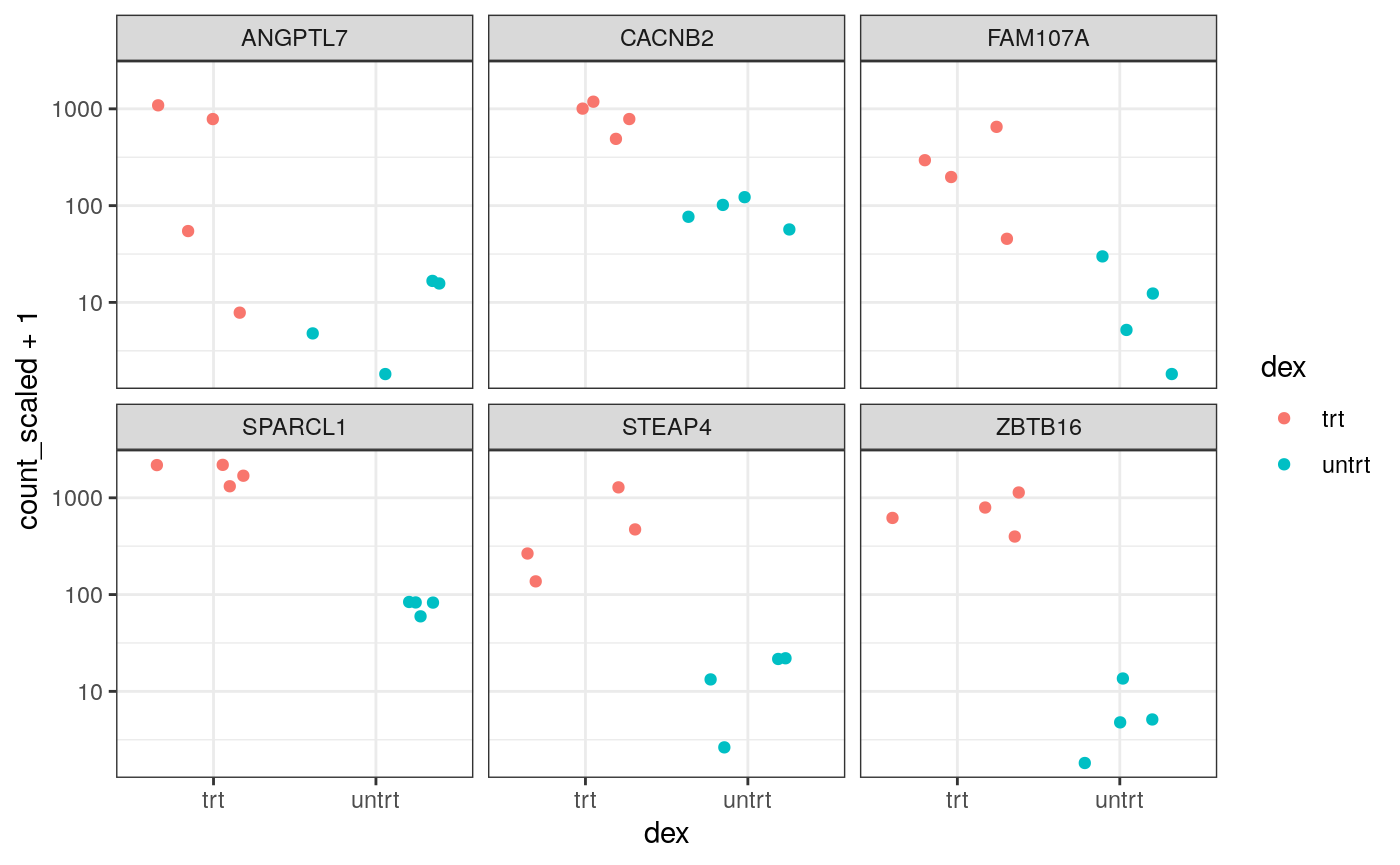
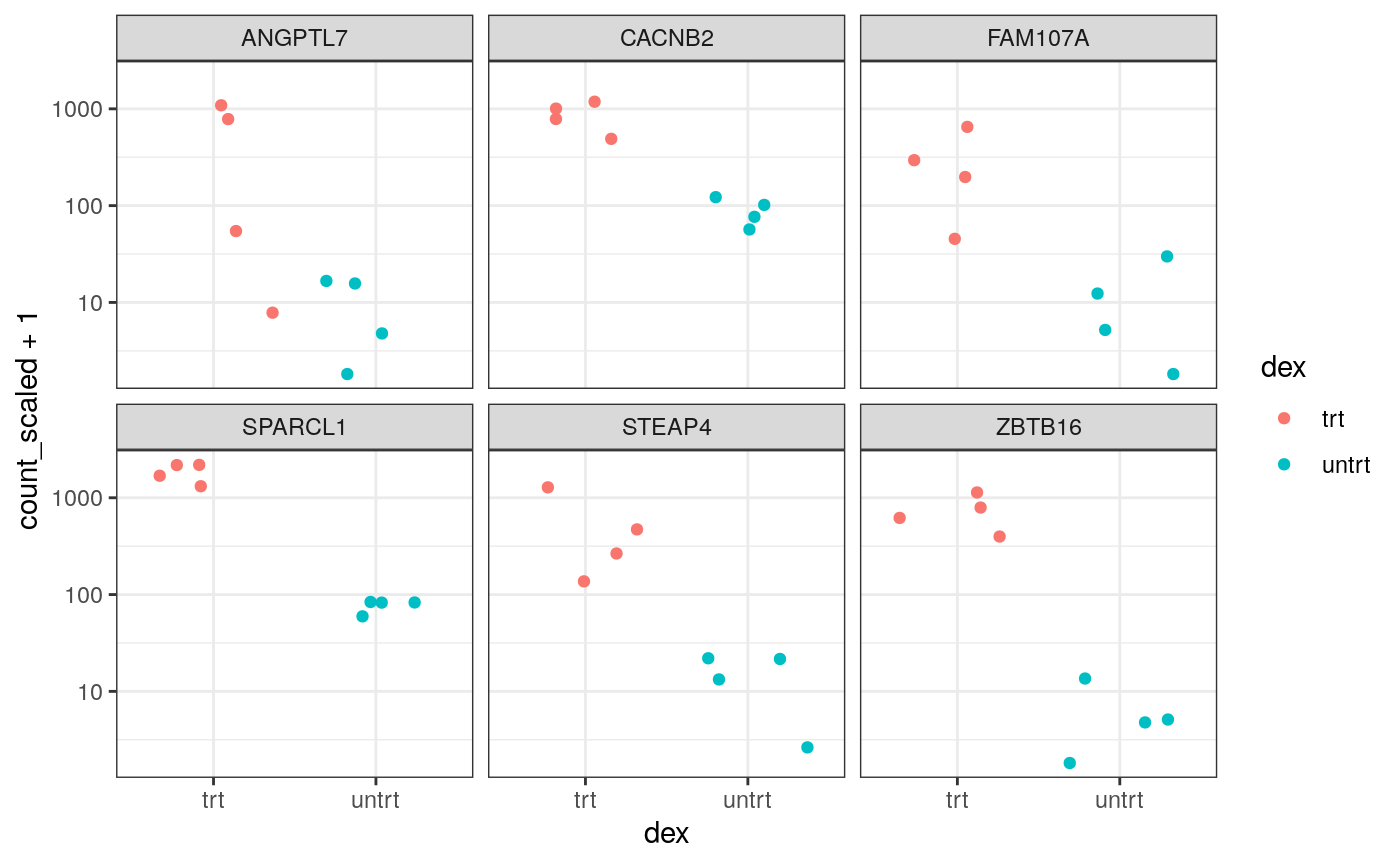
Deploying to gh-pages from  @ ad9006432ec81ad8755404ba2d474d36feb08934 🚀

diff --git a/articles/tidytranscriptomics.html b/articles/tidytranscriptomics.html
@@ -186,7 +186,7 @@
 <h2 class="hasAnchor">
 <a href="#acknowledgements" class="anchor"></a>Acknowledgements</h2>
 <p>This material is adapted from an R for RNA-Seq workshop first run <a href="http://combine-australia.github.io/2016-05-11-RNAseq/">here</a>.</p>
-<p><img src="../../../../tmp/RtmpfVWxYM/temp_libpath3411f44aed0/tidytranscriptomics/vignettes/tidybulk_logo.png" width="501"></p>
+<p><img src="../../../../tmp/Rtmp8M4zva/temp_libpath33f35d0c35a/tidytranscriptomics/vignettes/tidybulk_logo.png" width="501"></p>
 </div>
 </div>
 <div id="overview" class="section level1">
@@ -784,8 +784,8 @@ Count how many downregulated DE genes there are.</p>
     <span class="fu"><a href="https://ggplot2.tidyverse.org/reference/ggtheme.html">theme_bw</a></span>()</pre></body></html></div>
 <p>Then we simply give our plot, p, to the ggplotly function. We can also specify which parameters from the aes() we want to show up when we hover over the plot with tooltip=.</p>
 <div class="sourceCode" id="cb36"><html><body><pre class="r"><span class="fu"><a href="https://rdrr.io/pkg/plotly/man/ggplotly.html">ggplotly</a></span>(<span class="no">p</span>, <span class="kw">tooltip</span> <span class="kw">=</span> <span class="fu"><a href="https://rdrr.io/r/base/c.html">c</a></span>(<span class="st">"label"</span>, <span class="st">"y"</span>))</pre></body></html></div>
-<div id="htmlwidget-235019543d0457da34e0" style="width:700px;height:432.632880098888px;" class="plotly html-widget"></div>
-<script type="application/json" data-for="htmlwidget-235019543d0457da34e0">{"x":{"data":[{"x":[1.21570576820523,1.39398273620754,1.31217649877071,0.644292893819511],"y":[1.73728205141041,2.89401622468631,0.893778082835723,3.03627098310859],"text":["count_scaled + 1:   54.594227<br />sample: 509","count_scaled + 1:  783.629558<br />sample: 513","count_scaled + 1:    7.831350<br />sample: 517","count_scaled + 1: 1087.165607<br />sample: 521"],"type":"scatter","mode":"markers","marker":{"autocolorscale":false,"color":"rgba(248,118,109,1)","opacity":1,"size":5.66929133858268,"symbol":"circle","line":{"width":1.88976377952756,"color":"rgba(248,118,109,1)"}},"hoveron":"points","name":"trt","legendgroup":"trt","showlegend":true,"xaxis":"x","yaxis":"y","hoverinfo":"text","frame":null},{"x":[1.00137656871229,1.30676139742136,1.00832558143884,0.95162315890193],"y":[2.89465899232649,3.07337409752623,2.68970357498483,3.00209638558997],"text":["count_scaled + 1:  784.547600<br />sample: 509","count_scaled + 1: 1184.312830<br />sample: 513","count_scaled + 1:  489.441544<br />sample: 517","count_scaled + 1: 1004.710673<br />sample: 521"],"type":"scatter","mode":"markers","marker":{"autocolorscale":false,"color":"rgba(248,118,109,1)","opacity":1,"size":5.66929133858268,"symbol":"circle","line":{"width":1.88976377952756,"color":"rgba(248,118,109,1)"}},"hoveron":"points","name":"trt","legendgroup":"trt","showlegend":false,"xaxis":"x2","yaxis":"y","hoverinfo":"text","frame":null},{"x":[0.744584953226149,0.668123092129826,0.850157279893756,1.32685821950436],"y":[2.46938799602168,2.81359419442995,1.65703426555461,2.29545950779066],"text":["count_scaled + 1:  294.696364<br />sample: 509","count_scaled + 1:  651.029338<br />sample: 513","count_scaled + 1:   45.403777<br />sample: 517","count_scaled + 1:  197.466694<br />sample: 521"],"type":"scatter","mode":"markers","marker":{"autocolorscale":false,"color":"rgba(248,118,109,1)","opacity":1,"size":5.66929133858268,"symbol":"circle","line":{"width":1.88976377952756,"color":"rgba(248,118,109,1)"}},"hoveron":"points","name":"trt","legendgroup":"trt","showlegend":false,"xaxis":"x3","yaxis":"y","hoverinfo":"text","frame":null},{"x":[0.979618299566209,0.85689706299454,0.801362202689052,0.875815153680742],"y":[3.34005330193838,3.22786887979703,3.11921169852723,3.33791442567974],"text":["count_scaled + 1: 2187.644464<br />sample: 509","count_scaled + 1: 1690.211495<br />sample: 513","count_scaled + 1: 1315.351790<br />sample: 517","count_scaled + 1: 2177.403062<br />sample: 521"],"type":"scatter","mode":"markers","marker":{"autocolorscale":false,"color":"rgba(248,118,109,1)","opacity":1,"size":5.66929133858268,"symbol":"circle","line":{"width":1.88976377952756,"color":"rgba(248,118,109,1)"}},"hoveron":"points","name":"trt","legendgroup":"trt","showlegend":false,"xaxis":"x","yaxis":"y2","hoverinfo":"text","frame":null},{"x":[1.21147313509136,1.22606532387435,1.37493712157011,0.660956122726202],"y":[2.42459462444432,3.1078380582323,2.1365016179664,2.67338529198724],"text":["count_scaled + 1:  265.755482<br />sample: 509","count_scaled + 1: 1282.321688<br />sample: 513","count_scaled + 1:  136.943870<br />sample: 517","count_scaled + 1:  471.298510<br />sample: 521"],"type":"scatter","mode":"markers","marker":{"autocolorscale":false,"color":"rgba(248,118,109,1)","opacity":1,"size":5.66929133858268,"symbol":"circle","line":{"width":1.88976377952756,"color":"rgba(248,118,109,1)"}},"hoveron":"points","name":"trt","legendgroup":"trt","showlegend":false,"xaxis":"x2","yaxis":"y2","hoverinfo":"text","frame":null},{"x":[0.642636989429593,0.863058328814805,0.732294569350779,0.926914392411709],"y":[2.89935744935843,2.79195458185955,2.59975501587544,3.0546286291341],"text":["count_scaled + 1:  793.122676<br />sample: 509","count_scaled + 1:  619.320590<br />sample: 513","count_scaled + 1:  397.901450<br />sample: 517","count_scaled + 1: 1133.991865<br />sample: 521"],"type":"scatter","mode":"markers","marker":{"autocolorscale":false,"color":"rgba(248,118,109,1)","opacity":1,"size":5.66929133858268,"symbol":"circle","line":{"width":1.88976377952756,"color":"rgba(248,118,109,1)"}},"hoveron":"points","name":"trt","legendgroup":"trt","showlegend":false,"xaxis":"x3","yaxis":"y2","hoverinfo":"text","frame":null},{"x":[2.12927833925933,2.34770349264145,2.14945242255926,1.67820301391184],"y":[0.679629133803114,1.22184719405058,0.26005942230235,1.19526539667057],"text":["count_scaled + 1:    4.781532<br />sample: 508","count_scaled + 1:   16.670834<br />sample: 512","count_scaled + 1:    1.819319<br />sample: 516","count_scaled + 1:   15.683213<br />sample: 520"],"type":"scatter","mode":"markers","marker":{"autocolorscale":false,"color":"rgba(0,191,196,1)","opacity":1,"size":5.66929133858268,"symbol":"circle","line":{"width":1.88976377952756,"color":"rgba(0,191,196,1)"}},"hoveron":"points","name":"untrt","legendgroup":"untrt","showlegend":true,"xaxis":"x","yaxis":"y","hoverinfo":"text","frame":null},{"x":[1.80864110998809,2.07695192955434,1.86744059864432,1.78708292245865],"y":[1.88449976887222,2.08712320565337,1.75373131439749,2.00714846595127],"text":["count_scaled + 1:   76.630633<br />sample: 508","count_scaled + 1:  122.242767<br />sample: 512","count_scaled + 1:   56.713711<br />sample: 516","count_scaled + 1:  101.684887<br />sample: 520"],"type":"scatter","mode":"markers","marker":{"autocolorscale":false,"color":"rgba(0,191,196,1)","opacity":1,"size":5.66929133858268,"symbol":"circle","line":{"width":1.88976377952756,"color":"rgba(0,191,196,1)"}},"hoveron":"points","name":"untrt","legendgroup":"untrt","showlegend":false,"xaxis":"x2","yaxis":"y","hoverinfo":"text","frame":null},{"x":[1.92308437898755,1.61563271936029,2.1412422215566,1.82666055839509],"y":[1.0915812289199,1.47506191939727,0.259733526839792,0.715436877990699],"text":["count_scaled + 1:   12.344595<br />sample: 508","count_scaled + 1:   29.867325<br />sample: 512","count_scaled + 1:    1.819319<br />sample: 516","count_scaled + 1:    5.195204<br />sample: 520"],"type":"scatter","mode":"markers","marker":{"autocolorscale":false,"color":"rgba(0,191,196,1)","opacity":1,"size":5.66929133858268,"symbol":"circle","line":{"width":1.88976377952756,"color":"rgba(0,191,196,1)"}},"hoveron":"points","name":"untrt","legendgroup":"untrt","showlegend":false,"xaxis":"x3","yaxis":"y","hoverinfo":"text","frame":null},{"x":[2.13067756891251,2.19726995807141,1.97403500024229,1.8564035108313],"y":[1.77516598829822,1.91725683717417,1.91874013914557,1.92357112325887],"text":["count_scaled + 1:   59.613741<br />sample: 508","count_scaled + 1:   82.653292<br />sample: 512","count_scaled + 1:   82.931928<br />sample: 516","count_scaled + 1:   83.855272<br />sample: 520"],"type":"scatter","mode":"markers","marker":{"autocolorscale":false,"color":"rgba(0,191,196,1)","opacity":1,"size":5.66929133858268,"symbol":"circle","line":{"width":1.88976377952756,"color":"rgba(0,191,196,1)"}},"hoveron":"points","name":"untrt","legendgroup":"untrt","showlegend":false,"xaxis":"x","yaxis":"y2","hoverinfo":"text","frame":null},{"x":[1.75192174911499,1.72286606132984,1.95977562405169,2.04091384094208],"y":[1.12363319569917,1.33467794296029,0.421420488365923,1.34199046522261],"text":["count_scaled + 1:   13.289978<br />sample: 508","count_scaled + 1:   21.619518<br />sample: 512","count_scaled + 1:    2.638639<br />sample: 516","count_scaled + 1:   21.976018<br />sample: 520"],"type":"scatter","mode":"markers","marker":{"autocolorscale":false,"color":"rgba(0,191,196,1)","opacity":1,"size":5.66929133858268,"symbol":"circle","line":{"width":1.88976377952756,"color":"rgba(0,191,196,1)"}},"hoveron":"points","name":"untrt","legendgroup":"untrt","showlegend":false,"xaxis":"x2","yaxis":"y2","hoverinfo":"text","frame":null},{"x":[2.37249439097941,2.14613759238273,2.28444579355419,2.33318480495363],"y":[0.679626062711842,0.709721888462342,0.260018378404195,1.13294956741353],"text":["count_scaled + 1:    4.781532<br />sample: 508","count_scaled + 1:    5.123904<br />sample: 512","count_scaled + 1:    1.819319<br />sample: 516","count_scaled + 1:   13.585611<br />sample: 520"],"type":"scatter","mode":"markers","marker":{"autocolorscale":false,"color":"rgba(0,191,196,1)","opacity":1,"size":5.66929133858268,"symbol":"circle","line":{"width":1.88976377952756,"color":"rgba(0,191,196,1)"}},"hoveron":"points","name":"untrt","legendgroup":"untrt","showlegend":false,"xaxis":"x3","yaxis":"y2","hoverinfo":"text","frame":null}],"layout":{"margin":{"t":39.5141341357194,"r":7.30593607305936,"b":41.7789743183678,"l":48.9497716894977},"plot_bgcolor":"rgba(255,255,255,1)","paper_bgcolor":"rgba(255,255,255,1)","font":{"color":"rgba(0,0,0,1)","family":"","size":14.6118721461187},"xaxis":{"domain":[0,0.32941943900848],"automargin":true,"type":"linear","autorange":false,"range":[0.4,2.6],"tickmode":"array","ticktext":["trt","untrt"],"tickvals":[1,2],"categoryorder":"array","categoryarray":["trt","untrt"],"nticks":null,"ticks":"outside","tickcolor":"rgba(51,51,51,1)","ticklen":3.65296803652968,"tickwidth":0.66417600664176,"showticklabels":true,"tickfont":{"color":"rgba(77,77,77,1)","family":"","size":11.689497716895},"tickangle":-0,"showline":false,"linecolor":null,"linewidth":0,"showgrid":true,"gridcolor":"rgba(235,235,235,1)","gridwidth":0.66417600664176,"zeroline":false,"anchor":"y2","title":"","hoverformat":".2f"},"annotations":[{"text":"dex","x":0.5,"y":-0.0196373426241191,"showarrow":false,"ax":0,"ay":0,"font":{"color":"rgba(0,0,0,1)","family":"","size":14.6118721461187},"xref":"paper","yref":"paper","textangle":-0,"xanchor":"center","yanchor":"top","annotationType":"axis"},{"text":"count_scaled + 1","x":-0.0183953033268102,"y":0.5,"showarrow":false,"ax":0,"ay":0,"font":{"color":"rgba(0,0,0,1)","family":"","size":14.6118721461187},"xref":"paper","yref":"paper","textangle":-90,"xanchor":"right","yanchor":"center","annotationType":"axis"},{"text":"ANGPTL7","x":0.16470971950424,"y":1,"showarrow":false,"ax":0,"ay":0,"font":{"color":"rgba(26,26,26,1)","family":"","size":11.689497716895},"xref":"paper","yref":"paper","textangle":-0,"xanchor":"center","yanchor":"bottom"},{"text":"CACNB2","x":0.5,"y":1,"showarrow":false,"ax":0,"ay":0,"font":{"color":"rgba(26,26,26,1)","family":"","size":11.689497716895},"xref":"paper","yref":"paper","textangle":-0,"xanchor":"center","yanchor":"bottom"},{"text":"FAM107A","x":0.83529028049576,"y":1,"showarrow":false,"ax":0,"ay":0,"font":{"color":"rgba(26,26,26,1)","family":"","size":11.689497716895},"xref":"paper","yref":"paper","textangle":-0,"xanchor":"center","yanchor":"bottom"},{"text":"SPARCL1","x":0.16470971950424,"y":0.483529970702352,"showarrow":false,"ax":0,"ay":0,"font":{"color":"rgba(26,26,26,1)","family":"","size":11.689497716895},"xref":"paper","yref":"paper","textangle":-0,"xanchor":"center","yanchor":"bottom"},{"text":"STEAP4","x":0.5,"y":0.483529970702352,"showarrow":false,"ax":0,"ay":0,"font":{"color":"rgba(26,26,26,1)","family":"","size":11.689497716895},"xref":"paper","yref":"paper","textangle":-0,"xanchor":"center","yanchor":"bottom"},{"text":"ZBTB16","x":0.83529028049576,"y":0.483529970702352,"showarrow":false,"ax":0,"ay":0,"font":{"color":"rgba(26,26,26,1)","family":"","size":11.689497716895},"xref":"paper","yref":"paper","textangle":-0,"xanchor":"center","yanchor":"bottom"},{"text":"dex","x":1.02,"y":1,"showarrow":false,"ax":0,"ay":0,"font":{"color":"rgba(0,0,0,1)","family":"","size":14.6118721461187},"xref":"paper","yref":"paper","textangle":-0,"xanchor":"left","yanchor":"bottom","legendTitle":true}],"yaxis":{"domain":[0.516470029297648,1],"automargin":true,"type":"linear","autorange":false,"range":[0.105717538084863,3.49406929069331],"tickmode":"array","ticktext":["10","100","1000"],"tickvals":[1,2,3],"categoryorder":"array","categoryarray":["10","100","1000"],"nticks":null,"ticks":"outside","tickcolor":"rgba(51,51,51,1)","ticklen":3.65296803652968,"tickwidth":0.66417600664176,"showticklabels":true,"tickfont":{"color":"rgba(77,77,77,1)","family":"","size":11.689497716895},"tickangle":-0,"showline":false,"linecolor":null,"linewidth":0,"showgrid":true,"gridcolor":"rgba(235,235,235,1)","gridwidth":0.66417600664176,"zeroline":false,"anchor":"x","title":"","hoverformat":".2f"},"shapes":[{"type":"rect","fillcolor":"transparent","line":{"color":"rgba(51,51,51,1)","width":0.66417600664176,"linetype":"solid"},"yref":"paper","xref":"paper","x0":0,"x1":0.32941943900848,"y0":0.516470029297648,"y1":1},{"type":"rect","fillcolor":"rgba(217,217,217,1)","line":{"color":"rgba(51,51,51,1)","width":0.66417600664176,"linetype":"solid"},"yref":"paper","xref":"paper","x0":0,"x1":0.32941943900848,"y0":0,"y1":23.37899543379,"yanchor":1,"ysizemode":"pixel"},{"type":"rect","fillcolor":"transparent","line":{"color":"rgba(51,51,51,1)","width":0.66417600664176,"linetype":"solid"},"yref":"paper","xref":"paper","x0":0.337247227658187,"x1":0.662752772341813,"y0":0.516470029297648,"y1":1},{"type":"rect","fillcolor":"rgba(217,217,217,1)","line":{"color":"rgba(51,51,51,1)","width":0.66417600664176,"linetype":"solid"},"yref":"paper","xref":"paper","x0":0.337247227658187,"x1":0.662752772341813,"y0":0,"y1":23.37899543379,"yanchor":1,"ysizemode":"pixel"},{"type":"rect","fillcolor":"transparent","line":{"color":"rgba(51,51,51,1)","width":0.66417600664176,"linetype":"solid"},"yref":"paper","xref":"paper","x0":0.67058056099152,"x1":1,"y0":0.516470029297648,"y1":1},{"type":"rect","fillcolor":"rgba(217,217,217,1)","line":{"color":"rgba(51,51,51,1)","width":0.66417600664176,"linetype":"solid"},"yref":"paper","xref":"paper","x0":0.67058056099152,"x1":1,"y0":0,"y1":23.37899543379,"yanchor":1,"ysizemode":"pixel"},{"type":"rect","fillcolor":"transparent","line":{"color":"rgba(51,51,51,1)","width":0.66417600664176,"linetype":"solid"},"yref":"paper","xref":"paper","x0":0,"x1":0.32941943900848,"y0":0,"y1":0.483529970702352},{"type":"rect","fillcolor":"rgba(217,217,217,1)","line":{"color":"rgba(51,51,51,1)","width":0.66417600664176,"linetype":"solid"},"yref":"paper","xref":"paper","x0":0,"x1":0.32941943900848,"y0":0,"y1":23.37899543379,"yanchor":0.483529970702352,"ysizemode":"pixel"},{"type":"rect","fillcolor":"transparent","line":{"color":"rgba(51,51,51,1)","width":0.66417600664176,"linetype":"solid"},"yref":"paper","xref":"paper","x0":0.337247227658187,"x1":0.662752772341813,"y0":0,"y1":0.483529970702352},{"type":"rect","fillcolor":"rgba(217,217,217,1)","line":{"color":"rgba(51,51,51,1)","width":0.66417600664176,"linetype":"solid"},"yref":"paper","xref":"paper","x0":0.337247227658187,"x1":0.662752772341813,"y0":0,"y1":23.37899543379,"yanchor":0.483529970702352,"ysizemode":"pixel"},{"type":"rect","fillcolor":"transparent","line":{"color":"rgba(51,51,51,1)","width":0.66417600664176,"linetype":"solid"},"yref":"paper","xref":"paper","x0":0.67058056099152,"x1":1,"y0":0,"y1":0.483529970702352},{"type":"rect","fillcolor":"rgba(217,217,217,1)","line":{"color":"rgba(51,51,51,1)","width":0.66417600664176,"linetype":"solid"},"yref":"paper","xref":"paper","x0":0.67058056099152,"x1":1,"y0":0,"y1":23.37899543379,"yanchor":0.483529970702352,"ysizemode":"pixel"}],"xaxis2":{"type":"linear","autorange":false,"range":[0.4,2.6],"tickmode":"array","ticktext":["trt","untrt"],"tickvals":[1,2],"categoryorder":"array","categoryarray":["trt","untrt"],"nticks":null,"ticks":"outside","tickcolor":"rgba(51,51,51,1)","ticklen":3.65296803652968,"tickwidth":0.66417600664176,"showticklabels":true,"tickfont":{"color":"rgba(77,77,77,1)","family":"","size":11.689497716895},"tickangle":-0,"showline":false,"linecolor":null,"linewidth":0,"showgrid":true,"domain":[0.337247227658187,0.662752772341813],"gridcolor":"rgba(235,235,235,1)","gridwidth":0.66417600664176,"zeroline":false,"anchor":"y2","title":"","hoverformat":".2f"},"xaxis3":{"type":"linear","autorange":false,"range":[0.4,2.6],"tickmode":"array","ticktext":["trt","untrt"],"tickvals":[1,2],"categoryorder":"array","categoryarray":["trt","untrt"],"nticks":null,"ticks":"outside","tickcolor":"rgba(51,51,51,1)","ticklen":3.65296803652968,"tickwidth":0.66417600664176,"showticklabels":true,"tickfont":{"color":"rgba(77,77,77,1)","family":"","size":11.689497716895},"tickangle":-0,"showline":false,"linecolor":null,"linewidth":0,"showgrid":true,"domain":[0.67058056099152,1],"gridcolor":"rgba(235,235,235,1)","gridwidth":0.66417600664176,"zeroline":false,"anchor":"y2","title":"","hoverformat":".2f"},"yaxis2":{"type":"linear","autorange":false,"range":[0.105717538084863,3.49406929069331],"tickmode":"array","ticktext":["10","100","1000"],"tickvals":[1,2,3],"categoryorder":"array","categoryarray":["10","100","1000"],"nticks":null,"ticks":"outside","tickcolor":"rgba(51,51,51,1)","ticklen":3.65296803652968,"tickwidth":0.66417600664176,"showticklabels":true,"tickfont":{"color":"rgba(77,77,77,1)","family":"","size":11.689497716895},"tickangle":-0,"showline":false,"linecolor":null,"linewidth":0,"showgrid":true,"domain":[0,0.483529970702352],"gridcolor":"rgba(235,235,235,1)","gridwidth":0.66417600664176,"zeroline":false,"anchor":"x","title":"","hoverformat":".2f"},"showlegend":true,"legend":{"bgcolor":"rgba(255,255,255,1)","bordercolor":"transparent","borderwidth":1.88976377952756,"font":{"color":"rgba(0,0,0,1)","family":"","size":11.689497716895},"y":0.96395248281826},"hovermode":"closest","barmode":"relative"},"config":{"doubleClick":"reset","showSendToCloud":false},"source":"A","attrs":{"3a113f7c0fc":{"x":{},"y":{},"colour":{},"label":{},"type":"scatter"}},"cur_data":"3a113f7c0fc","visdat":{"3a113f7c0fc":["function (y) ","x"]},"highlight":{"on":"plotly_click","persistent":false,"dynamic":false,"selectize":false,"opacityDim":0.2,"selected":{"opacity":1},"debounce":0},"shinyEvents":["plotly_hover","plotly_click","plotly_selected","plotly_relayout","plotly_brushed","plotly_brushing","plotly_clickannotation","plotly_doubleclick","plotly_deselect","plotly_afterplot","plotly_sunburstclick"],"base_url":"https://plot.ly"},"evals":[],"jsHooks":[]}</script>
+<div id="htmlwidget-5b57ca56f848b6e13a1a" style="width:700px;height:432.632880098888px;" class="plotly html-widget"></div>
+<script type="application/json" data-for="htmlwidget-5b57ca56f848b6e13a1a">{"x":{"data":[{"x":[1.35124142132699,1.29694491587579,1.22501263916492,0.729881196096539],"y":[1.73709084131943,2.89417633197774,0.893739322940289,3.03632746739849],"text":["count_scaled + 1:   54.594227<br />sample: 509","count_scaled + 1:  783.629558<br />sample: 513","count_scaled + 1:    7.831350<br />sample: 517","count_scaled + 1: 1087.165607<br />sample: 521"],"type":"scatter","mode":"markers","marker":{"autocolorscale":false,"color":"rgba(248,118,109,1)","opacity":1,"size":5.66929133858268,"symbol":"circle","line":{"width":1.88976377952756,"color":"rgba(248,118,109,1)"}},"hoveron":"points","name":"trt","legendgroup":"trt","showlegend":true,"xaxis":"x","yaxis":"y","hoverinfo":"text","frame":null},{"x":[0.621926215104759,1.34204610399902,1.05131539609283,1.27837130147964],"y":[2.89463967288357,3.07342462959197,2.68957123484571,3.00214673367886],"text":["count_scaled + 1:  784.547600<br />sample: 509","count_scaled + 1: 1184.312830<br />sample: 513","count_scaled + 1:  489.441544<br />sample: 517","count_scaled + 1: 1004.710673<br />sample: 521"],"type":"scatter","mode":"markers","marker":{"autocolorscale":false,"color":"rgba(248,118,109,1)","opacity":1,"size":5.66929133858268,"symbol":"circle","line":{"width":1.88976377952756,"color":"rgba(248,118,109,1)"}},"hoveron":"points","name":"trt","legendgroup":"trt","showlegend":false,"xaxis":"x2","yaxis":"y","hoverinfo":"text","frame":null},{"x":[0.631779422424734,0.807076263055205,1.28626502752304,0.863469890505075],"y":[2.46942121053268,2.81346175572257,1.65706497326317,2.29563988010612],"text":["count_scaled + 1:  294.696364<br />sample: 509","count_scaled + 1:  651.029338<br />sample: 513","count_scaled + 1:   45.403777<br />sample: 517","count_scaled + 1:  197.466694<br />sample: 521"],"type":"scatter","mode":"markers","marker":{"autocolorscale":false,"color":"rgba(248,118,109,1)","opacity":1,"size":5.66929133858268,"symbol":"circle","line":{"width":1.88976377952756,"color":"rgba(248,118,109,1)"}},"hoveron":"points","name":"trt","legendgroup":"trt","showlegend":false,"xaxis":"x3","yaxis":"y","hoverinfo":"text","frame":null},{"x":[0.978139801882207,0.804080829583108,0.961456178687513,0.712199827283621],"y":[3.33982810183964,3.22812723184508,3.11885616315213,3.33779462879326],"text":["count_scaled + 1: 2187.644464<br />sample: 509","count_scaled + 1: 1690.211495<br />sample: 513","count_scaled + 1: 1315.351790<br />sample: 517","count_scaled + 1: 2177.403062<br />sample: 521"],"type":"scatter","mode":"markers","marker":{"autocolorscale":false,"color":"rgba(248,118,109,1)","opacity":1,"size":5.66929133858268,"symbol":"circle","line":{"width":1.88976377952756,"color":"rgba(248,118,109,1)"}},"hoveron":"points","name":"trt","legendgroup":"trt","showlegend":false,"xaxis":"x","yaxis":"y2","hoverinfo":"text","frame":null},{"x":[0.612495064176619,0.723483140021563,1.37249994445592,0.783311871252954],"y":[2.42444756268959,3.10798167137734,2.13657254740485,2.67336143030019],"text":["count_scaled + 1:  265.755482<br />sample: 509","count_scaled + 1: 1282.321688<br />sample: 513","count_scaled + 1:  136.943870<br />sample: 517","count_scaled + 1:  471.298510<br />sample: 521"],"type":"scatter","mode":"markers","marker":{"autocolorscale":false,"color":"rgba(248,118,109,1)","opacity":1,"size":5.66929133858268,"symbol":"circle","line":{"width":1.88976377952756,"color":"rgba(248,118,109,1)"}},"hoveron":"points","name":"trt","legendgroup":"trt","showlegend":false,"xaxis":"x2","yaxis":"y2","hoverinfo":"text","frame":null},{"x":[1.0047023627907,1.27682855799794,1.03061999157071,0.714097165502608],"y":[2.89922990737974,2.79192195869334,2.59972060795292,3.0546163408831],"text":["count_scaled + 1:  793.122676<br />sample: 509","count_scaled + 1:  619.320590<br />sample: 513","count_scaled + 1:  397.901450<br />sample: 517","count_scaled + 1: 1133.991865<br />sample: 521"],"type":"scatter","mode":"markers","marker":{"autocolorscale":false,"color":"rgba(248,118,109,1)","opacity":1,"size":5.66929133858268,"symbol":"circle","line":{"width":1.88976377952756,"color":"rgba(248,118,109,1)"}},"hoveron":"points","name":"trt","legendgroup":"trt","showlegend":false,"xaxis":"x3","yaxis":"y2","hoverinfo":"text","frame":null},{"x":[2.15688232667744,1.6580824976787,2.21449374798685,1.71750520840287],"y":[0.679433412264013,1.22176772424925,0.259809037835773,1.19525693227778],"text":["count_scaled + 1:    4.781532<br />sample: 508","count_scaled + 1:   16.670834<br />sample: 512","count_scaled + 1:    1.819319<br />sample: 516","count_scaled + 1:   15.683213<br />sample: 520"],"type":"scatter","mode":"markers","marker":{"autocolorscale":false,"color":"rgba(0,191,196,1)","opacity":1,"size":5.66929133858268,"symbol":"circle","line":{"width":1.88976377952756,"color":"rgba(0,191,196,1)"}},"hoveron":"points","name":"untrt","legendgroup":"untrt","showlegend":true,"xaxis":"x","yaxis":"y","hoverinfo":"text","frame":null},{"x":[2.39244444444776,2.09800298586488,2.23657319825143,2.0224300371483],"y":[1.88424822804927,2.08706363536163,1.75365536454075,2.00718537660782],"text":["count_scaled + 1:   76.630633<br />sample: 508","count_scaled + 1:  122.242767<br />sample: 512","count_scaled + 1:   56.713711<br />sample: 516","count_scaled + 1:  101.684887<br />sample: 520"],"type":"scatter","mode":"markers","marker":{"autocolorscale":false,"color":"rgba(0,191,196,1)","opacity":1,"size":5.66929133858268,"symbol":"circle","line":{"width":1.88976377952756,"color":"rgba(0,191,196,1)"}},"hoveron":"points","name":"untrt","legendgroup":"untrt","showlegend":false,"xaxis":"x2","yaxis":"y","hoverinfo":"text","frame":null},{"x":[2.10831359084696,2.19906004238874,1.89792914595455,1.83747764211148],"y":[1.09136441292389,1.47512235719994,0.259898125230047,0.715551185900229],"text":["count_scaled + 1:   12.344595<br />sample: 508","count_scaled + 1:   29.867325<br />sample: 512","count_scaled + 1:    1.819319<br />sample: 516","count_scaled + 1:    5.195204<br />sample: 520"],"type":"scatter","mode":"markers","marker":{"autocolorscale":false,"color":"rgba(0,191,196,1)","opacity":1,"size":5.66929133858268,"symbol":"circle","line":{"width":1.88976377952756,"color":"rgba(0,191,196,1)"}},"hoveron":"points","name":"untrt","legendgroup":"untrt","showlegend":false,"xaxis":"x3","yaxis":"y","hoverinfo":"text","frame":null},{"x":[2.2648724688217,2.0172226395458,1.79055578131229,2.03142052441835],"y":[1.7752234061766,1.91707334333249,1.91869635194238,1.92335027097768],"text":["count_scaled + 1:   59.613741<br />sample: 508","count_scaled + 1:   82.653292<br />sample: 512","count_scaled + 1:   82.931928<br />sample: 516","count_scaled + 1:   83.855272<br />sample: 520"],"type":"scatter","mode":"markers","marker":{"autocolorscale":false,"color":"rgba(0,191,196,1)","opacity":1,"size":5.66929133858268,"symbol":"circle","line":{"width":1.88976377952756,"color":"rgba(0,191,196,1)"}},"hoveron":"points","name":"untrt","legendgroup":"untrt","showlegend":false,"xaxis":"x","yaxis":"y2","hoverinfo":"text","frame":null},{"x":[1.94692217353731,2.25913216285408,2.38520657662302,1.6251791389659],"y":[1.12360696596687,1.33483278741125,0.421369673662079,1.34193061803099],"text":["count_scaled + 1:   13.289978<br />sample: 508","count_scaled + 1:   21.619518<br />sample: 512","count_scaled + 1:    2.638639<br />sample: 516","count_scaled + 1:   21.976018<br />sample: 520"],"type":"scatter","mode":"markers","marker":{"autocolorscale":false,"color":"rgba(0,191,196,1)","opacity":1,"size":5.66929133858268,"symbol":"circle","line":{"width":1.88976377952756,"color":"rgba(0,191,196,1)"}},"hoveron":"points","name":"untrt","legendgroup":"untrt","showlegend":false,"xaxis":"x2","yaxis":"y2","hoverinfo":"text","frame":null},{"x":[2.00708471070975,2.36317986082286,2.31863813325763,1.63580156862736],"y":[0.679767144796982,0.709470077224247,0.260034424639948,1.13299042739972],"text":["count_scaled + 1:    4.781532<br />sample: 508","count_scaled + 1:    5.123904<br />sample: 512","count_scaled + 1:    1.819319<br />sample: 516","count_scaled + 1:   13.585611<br />sample: 520"],"type":"scatter","mode":"markers","marker":{"autocolorscale":false,"color":"rgba(0,191,196,1)","opacity":1,"size":5.66929133858268,"symbol":"circle","line":{"width":1.88976377952756,"color":"rgba(0,191,196,1)"}},"hoveron":"points","name":"untrt","legendgroup":"untrt","showlegend":false,"xaxis":"x3","yaxis":"y2","hoverinfo":"text","frame":null}],"layout":{"margin":{"t":39.5141341357194,"r":7.30593607305936,"b":41.7789743183678,"l":48.9497716894977},"plot_bgcolor":"rgba(255,255,255,1)","paper_bgcolor":"rgba(255,255,255,1)","font":{"color":"rgba(0,0,0,1)","family":"","size":14.6118721461187},"xaxis":{"domain":[0,0.32941943900848],"automargin":true,"type":"linear","autorange":false,"range":[0.4,2.6],"tickmode":"array","ticktext":["trt","untrt"],"tickvals":[1,2],"categoryorder":"array","categoryarray":["trt","untrt"],"nticks":null,"ticks":"outside","tickcolor":"rgba(51,51,51,1)","ticklen":3.65296803652968,"tickwidth":0.66417600664176,"showticklabels":true,"tickfont":{"color":"rgba(77,77,77,1)","family":"","size":11.689497716895},"tickangle":-0,"showline":false,"linecolor":null,"linewidth":0,"showgrid":true,"gridcolor":"rgba(235,235,235,1)","gridwidth":0.66417600664176,"zeroline":false,"anchor":"y2","title":"","hoverformat":".2f"},"annotations":[{"text":"dex","x":0.5,"y":-0.0196373426241191,"showarrow":false,"ax":0,"ay":0,"font":{"color":"rgba(0,0,0,1)","family":"","size":14.6118721461187},"xref":"paper","yref":"paper","textangle":-0,"xanchor":"center","yanchor":"top","annotationType":"axis"},{"text":"count_scaled + 1","x":-0.0183953033268102,"y":0.5,"showarrow":false,"ax":0,"ay":0,"font":{"color":"rgba(0,0,0,1)","family":"","size":14.6118721461187},"xref":"paper","yref":"paper","textangle":-90,"xanchor":"right","yanchor":"center","annotationType":"axis"},{"text":"ANGPTL7","x":0.16470971950424,"y":1,"showarrow":false,"ax":0,"ay":0,"font":{"color":"rgba(26,26,26,1)","family":"","size":11.689497716895},"xref":"paper","yref":"paper","textangle":-0,"xanchor":"center","yanchor":"bottom"},{"text":"CACNB2","x":0.5,"y":1,"showarrow":false,"ax":0,"ay":0,"font":{"color":"rgba(26,26,26,1)","family":"","size":11.689497716895},"xref":"paper","yref":"paper","textangle":-0,"xanchor":"center","yanchor":"bottom"},{"text":"FAM107A","x":0.83529028049576,"y":1,"showarrow":false,"ax":0,"ay":0,"font":{"color":"rgba(26,26,26,1)","family":"","size":11.689497716895},"xref":"paper","yref":"paper","textangle":-0,"xanchor":"center","yanchor":"bottom"},{"text":"SPARCL1","x":0.16470971950424,"y":0.483529970702352,"showarrow":false,"ax":0,"ay":0,"font":{"color":"rgba(26,26,26,1)","family":"","size":11.689497716895},"xref":"paper","yref":"paper","textangle":-0,"xanchor":"center","yanchor":"bottom"},{"text":"STEAP4","x":0.5,"y":0.483529970702352,"showarrow":false,"ax":0,"ay":0,"font":{"color":"rgba(26,26,26,1)","family":"","size":11.689497716895},"xref":"paper","yref":"paper","textangle":-0,"xanchor":"center","yanchor":"bottom"},{"text":"ZBTB16","x":0.83529028049576,"y":0.483529970702352,"showarrow":false,"ax":0,"ay":0,"font":{"color":"rgba(26,26,26,1)","family":"","size":11.689497716895},"xref":"paper","yref":"paper","textangle":-0,"xanchor":"center","yanchor":"bottom"},{"text":"dex","x":1.02,"y":1,"showarrow":false,"ax":0,"ay":0,"font":{"color":"rgba(0,0,0,1)","family":"","size":14.6118721461187},"xref":"paper","yref":"paper","textangle":-0,"xanchor":"left","yanchor":"bottom","legendTitle":true}],"yaxis":{"domain":[0.516470029297648,1],"automargin":true,"type":"linear","autorange":false,"range":[0.10580808463558,3.49382905503984],"tickmode":"array","ticktext":["10","100","1000"],"tickvals":[1,2,3],"categoryorder":"array","categoryarray":["10","100","1000"],"nticks":null,"ticks":"outside","tickcolor":"rgba(51,51,51,1)","ticklen":3.65296803652968,"tickwidth":0.66417600664176,"showticklabels":true,"tickfont":{"color":"rgba(77,77,77,1)","family":"","size":11.689497716895},"tickangle":-0,"showline":false,"linecolor":null,"linewidth":0,"showgrid":true,"gridcolor":"rgba(235,235,235,1)","gridwidth":0.66417600664176,"zeroline":false,"anchor":"x","title":"","hoverformat":".2f"},"shapes":[{"type":"rect","fillcolor":"transparent","line":{"color":"rgba(51,51,51,1)","width":0.66417600664176,"linetype":"solid"},"yref":"paper","xref":"paper","x0":0,"x1":0.32941943900848,"y0":0.516470029297648,"y1":1},{"type":"rect","fillcolor":"rgba(217,217,217,1)","line":{"color":"rgba(51,51,51,1)","width":0.66417600664176,"linetype":"solid"},"yref":"paper","xref":"paper","x0":0,"x1":0.32941943900848,"y0":0,"y1":23.37899543379,"yanchor":1,"ysizemode":"pixel"},{"type":"rect","fillcolor":"transparent","line":{"color":"rgba(51,51,51,1)","width":0.66417600664176,"linetype":"solid"},"yref":"paper","xref":"paper","x0":0.337247227658187,"x1":0.662752772341813,"y0":0.516470029297648,"y1":1},{"type":"rect","fillcolor":"rgba(217,217,217,1)","line":{"color":"rgba(51,51,51,1)","width":0.66417600664176,"linetype":"solid"},"yref":"paper","xref":"paper","x0":0.337247227658187,"x1":0.662752772341813,"y0":0,"y1":23.37899543379,"yanchor":1,"ysizemode":"pixel"},{"type":"rect","fillcolor":"transparent","line":{"color":"rgba(51,51,51,1)","width":0.66417600664176,"linetype":"solid"},"yref":"paper","xref":"paper","x0":0.67058056099152,"x1":1,"y0":0.516470029297648,"y1":1},{"type":"rect","fillcolor":"rgba(217,217,217,1)","line":{"color":"rgba(51,51,51,1)","width":0.66417600664176,"linetype":"solid"},"yref":"paper","xref":"paper","x0":0.67058056099152,"x1":1,"y0":0,"y1":23.37899543379,"yanchor":1,"ysizemode":"pixel"},{"type":"rect","fillcolor":"transparent","line":{"color":"rgba(51,51,51,1)","width":0.66417600664176,"linetype":"solid"},"yref":"paper","xref":"paper","x0":0,"x1":0.32941943900848,"y0":0,"y1":0.483529970702352},{"type":"rect","fillcolor":"rgba(217,217,217,1)","line":{"color":"rgba(51,51,51,1)","width":0.66417600664176,"linetype":"solid"},"yref":"paper","xref":"paper","x0":0,"x1":0.32941943900848,"y0":0,"y1":23.37899543379,"yanchor":0.483529970702352,"ysizemode":"pixel"},{"type":"rect","fillcolor":"transparent","line":{"color":"rgba(51,51,51,1)","width":0.66417600664176,"linetype":"solid"},"yref":"paper","xref":"paper","x0":0.337247227658187,"x1":0.662752772341813,"y0":0,"y1":0.483529970702352},{"type":"rect","fillcolor":"rgba(217,217,217,1)","line":{"color":"rgba(51,51,51,1)","width":0.66417600664176,"linetype":"solid"},"yref":"paper","xref":"paper","x0":0.337247227658187,"x1":0.662752772341813,"y0":0,"y1":23.37899543379,"yanchor":0.483529970702352,"ysizemode":"pixel"},{"type":"rect","fillcolor":"transparent","line":{"color":"rgba(51,51,51,1)","width":0.66417600664176,"linetype":"solid"},"yref":"paper","xref":"paper","x0":0.67058056099152,"x1":1,"y0":0,"y1":0.483529970702352},{"type":"rect","fillcolor":"rgba(217,217,217,1)","line":{"color":"rgba(51,51,51,1)","width":0.66417600664176,"linetype":"solid"},"yref":"paper","xref":"paper","x0":0.67058056099152,"x1":1,"y0":0,"y1":23.37899543379,"yanchor":0.483529970702352,"ysizemode":"pixel"}],"xaxis2":{"type":"linear","autorange":false,"range":[0.4,2.6],"tickmode":"array","ticktext":["trt","untrt"],"tickvals":[1,2],"categoryorder":"array","categoryarray":["trt","untrt"],"nticks":null,"ticks":"outside","tickcolor":"rgba(51,51,51,1)","ticklen":3.65296803652968,"tickwidth":0.66417600664176,"showticklabels":true,"tickfont":{"color":"rgba(77,77,77,1)","family":"","size":11.689497716895},"tickangle":-0,"showline":false,"linecolor":null,"linewidth":0,"showgrid":true,"domain":[0.337247227658187,0.662752772341813],"gridcolor":"rgba(235,235,235,1)","gridwidth":0.66417600664176,"zeroline":false,"anchor":"y2","title":"","hoverformat":".2f"},"xaxis3":{"type":"linear","autorange":false,"range":[0.4,2.6],"tickmode":"array","ticktext":["trt","untrt"],"tickvals":[1,2],"categoryorder":"array","categoryarray":["trt","untrt"],"nticks":null,"ticks":"outside","tickcolor":"rgba(51,51,51,1)","ticklen":3.65296803652968,"tickwidth":0.66417600664176,"showticklabels":true,"tickfont":{"color":"rgba(77,77,77,1)","family":"","size":11.689497716895},"tickangle":-0,"showline":false,"linecolor":null,"linewidth":0,"showgrid":true,"domain":[0.67058056099152,1],"gridcolor":"rgba(235,235,235,1)","gridwidth":0.66417600664176,"zeroline":false,"anchor":"y2","title":"","hoverformat":".2f"},"yaxis2":{"type":"linear","autorange":false,"range":[0.10580808463558,3.49382905503984],"tickmode":"array","ticktext":["10","100","1000"],"tickvals":[1,2,3],"categoryorder":"array","categoryarray":["10","100","1000"],"nticks":null,"ticks":"outside","tickcolor":"rgba(51,51,51,1)","ticklen":3.65296803652968,"tickwidth":0.66417600664176,"showticklabels":true,"tickfont":{"color":"rgba(77,77,77,1)","family":"","size":11.689497716895},"tickangle":-0,"showline":false,"linecolor":null,"linewidth":0,"showgrid":true,"domain":[0,0.483529970702352],"gridcolor":"rgba(235,235,235,1)","gridwidth":0.66417600664176,"zeroline":false,"anchor":"x","title":"","hoverformat":".2f"},"showlegend":true,"legend":{"bgcolor":"rgba(255,255,255,1)","bordercolor":"transparent","borderwidth":1.88976377952756,"font":{"color":"rgba(0,0,0,1)","family":"","size":11.689497716895},"y":0.96395248281826},"hovermode":"closest","barmode":"relative"},"config":{"doubleClick":"reset","showSendToCloud":false},"source":"A","attrs":{"39f7fe44d7a":{"x":{},"y":{},"colour":{},"label":{},"type":"scatter"}},"cur_data":"39f7fe44d7a","visdat":{"39f7fe44d7a":["function (y) ","x"]},"highlight":{"on":"plotly_click","persistent":false,"dynamic":false,"selectize":false,"opacityDim":0.2,"selected":{"opacity":1},"debounce":0},"shinyEvents":["plotly_hover","plotly_click","plotly_selected","plotly_relayout","plotly_brushed","plotly_brushing","plotly_clickannotation","plotly_doubleclick","plotly_deselect","plotly_afterplot","plotly_sunburstclick"],"base_url":"https://plot.ly"},"evals":[],"jsHooks":[]}</script>
 </div>
 </div>
 <div id="reproducibility" class="section level1">
